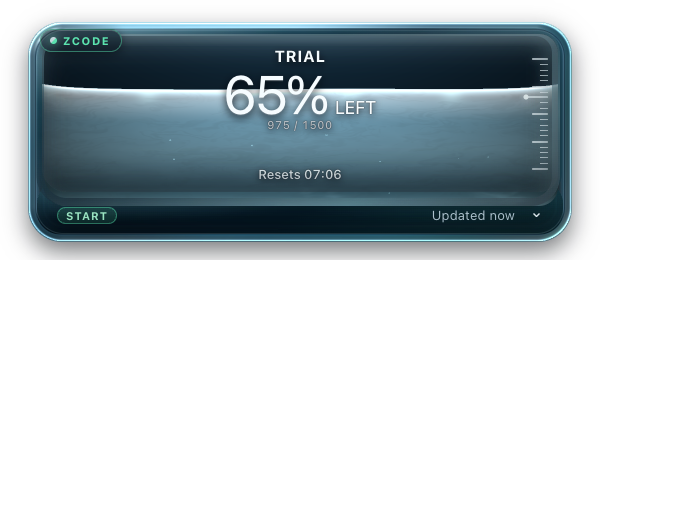
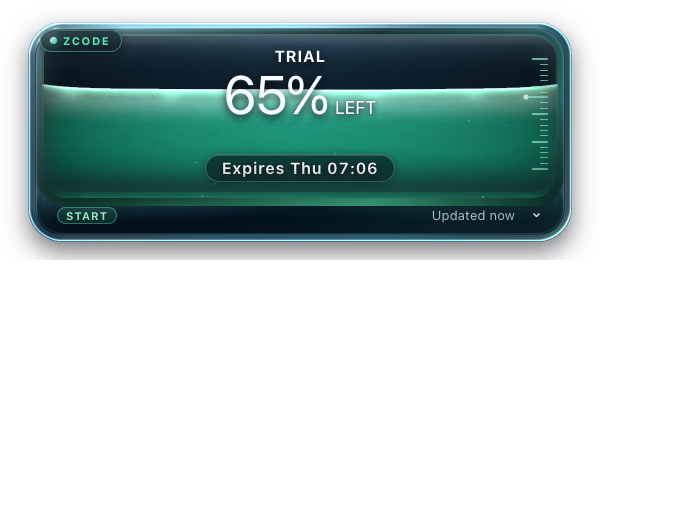
feat(zcode): 体验套餐复用 Pro 单舱形态并以翡翠绿液体区分
bandit0x 确认：体验套餐（start_plan）不需要 5h 限额仓概念，直接复用
Codex Pro 的全宽单舱（ProQuotaSurface），但液体颜色要区别于 Pro。

- ProQuotaSurface 新增 variant（默认 codex-pro 行为不变）：zcode-trial
  使用翡翠绿液体/边框、TRIAL 标签、Expires 语义的到期药丸（池到期时间
  非重置时间）、无 low 阈值
- 窄条同步复用 pro 布局：ZCODE · START 徽章（翡翠绿）+ TRIAL 百分比
- App.tsx 单池分支与守卫合并为 zcodeTrialSurface；移除首版 quota-grid
  TRIAL 舱方案
- CSS 镜像 emerald 单舱圆角/边框渐变与窄条圆点配色

验证：tsc 通过、vitest 61/61（TRIAL 单池断言改为 emerald+Expires、新增
窄条 START 变体测试）、?fixture=zcode-trial 紧凑/窄条截图对照通过，
release 二进制重装 /Applications/QuoDex.app 冒烟正常（Codex Pro 路径
无回归）。

Changed region(s): [[0.0309, 0.0615, 0.8338, 0.4]]

diff --git a/src/App.tsx b/src/App.tsx
@@ -303,7 +303,7 @@ function QuotaCell({
   motionSeed,
   reducedMotion,
 }: {
-  label: "5 HOUR" | "WEEK" | "TRIAL";
+  label: "5 HOUR" | "WEEK";
   window: QuotaWindow | null;
   accent: FluidAccent;
   credits?: string;
@@ -432,12 +432,14 @@ function SourceBadge({ source, pro = false }: { source: MeterSource; pro?: boole
 
 function CollapsedSurface({
   source,
+  pro,
+  trial,
   fiveHourPercent,
   weeklyPercent,
   onRestore,
-  pro = false,
 }: {
   pro?: boolean;
+  trial?: boolean;
   source: MeterSource;
   fiveHourPercent: number | null;
   weeklyPercent: number | null;
@@ -447,6 +449,11 @@ function CollapsedSurface({
     <span className="collapsed-pro-source">CODEX · PRO</span>
     <span>WEEK <strong>{weeklyPercent === null ? "—" : `${formatPercent(weeklyPercent)}%`}</strong></span>
     <i className="collapsed-dot collapsed-dot--pro" aria-hidden="true"/><Icon name="chevron"/>
+  </button>;
+  if (trial) return <button className="collapsed-surface collapsed-surface--pro collapsed-surface--zcode-trial" type="button" data-window-drag-surface onClick={onRestore} aria-label="恢复标准视图">
+    <span className="collapsed-pro-source">ZCODE · START</span>
+    <span>TRIAL <strong>{fiveHourPercent === null ? "—" : `${formatPercent(fiveHourPercent)}%`}</strong></span>
+    <i className="collapsed-dot collapsed-dot--zcode-trial" aria-hidden="true"/><Icon name="chevron"/>
   </button>;
   return (
     <button
@@ -872,8 +879,9 @@ export function App({
   const codexSnapshot = codexSlot.view.kind === "healthy" ? codexSlot.view.snapshot : codexSlot.lastSnapshot;
   const zcodeSnapshot = zcodeSlot.view.kind === "healthy" ? zcodeSlot.view.snapshot : zcodeSlot.lastSnapshot;
   const activeSnapshot = activeIsZcode ? zcodeSnapshot : codexSnapshot;
-  // 体验套餐（Start Plan）没有 5h/周窗口，额度聚合为单池展示
+  // 体验套餐（Start Plan）没有 5h/周窗口，额度聚合为单池，复用 Pro 单舱形态
   const zcodeIsTrial = zcodeSnapshot?.planKind === "start_plan";
+  const zcodeTrialSurface = activeIsZcode && zcodeIsTrial;
   // 显式传入的 codexPresentation 仅供测试与设计验证入口覆盖；生产从不传参，
   // 展示模式由最新快照里的协议套餐字段派生（未知套餐保持双仓）。
   const effectiveCodexPresentation = codexPresentation ?? deriveCodexPresentation(codexSnapshot);
@@ -931,28 +939,32 @@ export function App({
           <CollapsedSurface
             source={activeSource}
             pro={activeIsPro}
+            trial={zcodeTrialSurface}
             fiveHourPercent={activeSnapshot.fiveHour?.remainingPercent ?? null}
             weeklyPercent={activeSnapshot.weekly?.remainingPercent ?? null}
             onRestore={restoreCollapsedLayout}
           />
         ) : (
           <>
-            {!activeIsPro && activeSlot.view.kind === "loading" && <LoadingSurface label={sourceLabels[activeSource]} />}
-            {!activeIsPro && activeSlot.view.kind === "failed" && !activeSnapshot && (
+            {!activeIsPro && !zcodeTrialSurface && activeSlot.view.kind === "loading" && <LoadingSurface label={sourceLabels[activeSource]} />}
+            {!activeIsPro && !zcodeTrialSurface && activeSlot.view.kind === "failed" && !activeSnapshot && (
               <FailedSurface diagnostic={activeSlot.view.diagnostic} source={activeSource} onRetry={() => void refreshAll()} />
             )}
-            {activeIsPro && <ProQuotaSurface
-              window={codexSnapshot?.weekly ?? null}
+            {(activeIsPro || zcodeTrialSurface) && <ProQuotaSurface
+              variant={zcodeTrialSurface ? "zcode-trial" : "codex-pro"}
+              window={zcodeTrialSurface ? zcodeSnapshot?.fiveHour ?? null : codexSnapshot?.weekly ?? null}
               motion={fluidMotion}
-              motionSeed={fluidChamberSeeds.codexWeekly}
+              motionSeed={zcodeTrialSurface ? fluidChamberSeeds.zcodeFiveHour : fluidChamberSeeds.codexWeekly}
               reducedMotion={preferences.reducedMotion}
-              resetLabel={codexSnapshot?.weekly?.resetsAt == null ? "Resets —" : `Resets ${formatReset(codexSnapshot.weekly.resetsAt, true)}`}
+              resetLabel={zcodeTrialSurface
+                ? (zcodeSnapshot?.fiveHour?.resetsAt == null ? "Expires —" : `Expires ${formatReset(zcodeSnapshot.fiveHour.resetsAt, true)}`)
+                : (codexSnapshot?.weekly?.resetsAt == null ? "Resets —" : `Resets ${formatReset(codexSnapshot.weekly.resetsAt, true)}`)}
               status={stale ? "stale" : activeSlot.view.kind === "loading" ? "loading" : activeSlot.view.kind === "failed" ? "failed" : "ready"}
-              low={effectiveCodexPresentation.weeklyLow}
+              low={zcodeTrialSurface ? false : effectiveCodexPresentation.weeklyLow}
               diagnostic={failureDiagnostic}
               onRetry={() => void refreshAll()}
             />}
-            {!activeIsPro && activeSnapshot && (
+            {!activeIsPro && !zcodeTrialSurface && activeSnapshot && (
               <div
                 key={activeSource}
                 className={`quota-grid source-stage${activeIsZcode && !zcodeSnapshot?.weekly ? " quota-grid--single" : ""}`}
@@ -960,7 +972,7 @@ export function App({
                 {activeIsZcode && zcodeSnapshot ? (
                   <>
                     <QuotaCell
-                      label={zcodeIsTrial ? "TRIAL" : "5 HOUR"}
+                      label="5 HOUR"
                       window={zcodeSnapshot.fiveHour}
                       accent="moonlight"
                       credits={zcodeSnapshot.fiveHour ? formatCredits(zcodeSnapshot.fiveHour) : undefined}

diff --git a/src/ProQuotaSurface.tsx b/src/ProQuotaSurface.tsx
@@ -8,8 +8,27 @@ export interface CodexPresentation {
   weeklyLow?: boolean;
 }
 
+const SURFACE_COPY = {
+  "codex-pro": {
+    accent: "mint" as const,
+    label: "WEEK",
+    loading: "正在读取周额度…",
+    failed: "周额度读取失败",
+    unavailable: "周额度暂不可用",
+    low: "周额度偏低",
+  },
+  "zcode-trial": {
+    accent: "emerald" as const,
+    label: "TRIAL",
+    loading: "正在读取体验额度…",
+    failed: "体验额度读取失败",
+    unavailable: "体验额度暂不可用",
+    low: "体验额度偏低",
+  },
+};
+
 export function ProQuotaSurface({ window, motion, motionSeed, reducedMotion, resetLabel,
-  status = "ready", low = false, diagnostic, onRetry,
+  status = "ready", low = false, diagnostic, onRetry, variant = "codex-pro",
 }: {
   window: QuotaWindow | null;
   motion: FluidMotionSample;
@@ -20,24 +39,27 @@ export function ProQuotaSurface({ window, motion, motionSeed, reducedMotion, res
   low?: boolean;
   diagnostic?: { code: string; message: string };
   onRetry: () => void;
+  /** zcode-trial：ZCode 体验套餐单池，翡翠绿液体与 Codex Pro 薄荷绿区分 */
+  variant?: "codex-pro" | "zcode-trial";
 }) {
+  const copy = SURFACE_COPY[variant];
   const remaining = window?.remainingPercent ?? 0;
   const formatted = Number.isInteger(remaining) ? remaining.toFixed(0) : remaining.toFixed(1);
   return <div className="quota-grid quota-grid--single">
-    <section className={`quota-cell quota-cell--mint quota-cell--pro ${window ? "" : "quota-cell--unavailable"}`} role="group" aria-label="WEEK quota">
-      {window && <FluidReservoir remainingPercent={remaining} accent="mint" motion={motion} motionSeed={motionSeed} reducedMotion={reducedMotion}/>}
+    <section className={`quota-cell quota-cell--${copy.accent} quota-cell--pro ${window ? "" : "quota-cell--unavailable"}`} role="group" aria-label={`${copy.label} quota`}>
+      {window && <FluidReservoir remainingPercent={remaining} accent={copy.accent} motion={motion} motionSeed={motionSeed} reducedMotion={reducedMotion}/>}
       <span className="quota-cell__bezel" aria-hidden="true"/>
       <div className="cell-content">
-        <span className="quota-label">WEEK</span>
+        <span className="quota-label">{copy.label}</span>
         <div className="capacity-value"><span>{window ? `${formatted}%` : "—"}</span>{window && <small>LEFT</small>}</div>
-        {window && (status === "stale" || low) && <span className="pro-quota-warning">{status === "stale" ? "上次有效数据" : "周额度偏低"}</span>}
+        {window && (status === "stale" || low) && <span className="pro-quota-warning">{status === "stale" ? "上次有效数据" : copy.low}</span>}
         <span className="reset-time" role={status === "loading" ? "status" : undefined}>
-          {status === "loading" ? "正在读取周额度…" : status === "failed" ? "周额度读取失败" : window ? resetLabel : "周额度暂不可用"}
+          {status === "loading" ? copy.loading : status === "failed" ? copy.failed : window ? resetLabel : copy.unavailable}
         </span>
         {window && <div className="scale-line" aria-hidden="true"><span className="scale-line__ticks">{Array.from({length:21}, (_,i)=><span key={i} className={i%5===0 ? "scale-tick scale-tick--major" : "scale-tick"}/>)}</span><span className="scale-line__marker" style={{top:`${100-remaining}%`}}/></div>}
       </div>
       {(status === "failed" || (status === "stale" && diagnostic) || (status !== "loading" && !window)) && <div className="pro-quota-recovery" role="status">
-        <span title={diagnostic?.message}>{diagnostic ? `${diagnostic.message} · ${diagnostic.code}` : "周额度暂不可用"}</span>
+        <span title={diagnostic?.message}>{diagnostic ? `${diagnostic.message} · ${diagnostic.code}` : copy.unavailable}</span>
         <button type="button" onClick={onRetry}>重试</button>
       </div>}
     </section>

diff --git a/src/App.test.tsx b/src/App.test.tsx
@@ -605,7 +605,7 @@ describe("dual quota sources", () => {
     expect(screen.queryByRole("group", { name: "WEEK quota" })).not.toBeInTheDocument();
   });
 
-  it("renders the Start trial plan as a single TRIAL pool", async () => {
+  it("renders the Start trial plan as a Pro-style single pool with emerald liquid", async () => {
     render(
       <App
         {...inertPreferences}
@@ -630,13 +630,38 @@ describe("dual quota sources", () => {
     );
 
     const trial = await screen.findByRole("group", { name: "TRIAL quota" });
-    expect(trial).toHaveClass("quota-cell--moonlight");
+    expect(trial).toHaveClass("quota-cell--emerald", "quota-cell--pro");
     expect(within(trial).getByText("65%", { exact: false })).toBeInTheDocument();
-    expect(within(trial).getByText("975 / 1500")).toBeInTheDocument();
+    expect(within(trial).getByText("TRIAL")).toBeInTheDocument();
+    // 体验套餐的池到期时间语义是 Expires，不是 Resets
+    expect(within(trial).getByText(/Expires /)).toBeInTheDocument();
     expect(screen.queryByRole("group", { name: "WEEK quota" })).not.toBeInTheDocument();
+    expect(screen.queryByRole("group", { name: "5 HOUR quota" })).not.toBeInTheDocument();
     expect(screen.getByText("START")).toBeInTheDocument();
     // 体验套餐没有周窗口概念，footer 不应提示 Week unavailable
     expect(screen.queryByText(/Week unavailable/)).not.toBeInTheDocument();
+  });
+
+  it("renders a ZCode trial collapsed surface with START branding", async () => {
+    render(
+      <App
+        {...inertPreferences}
+        initialLayout="collapsed"
+        loadPreferences={async () => ({ ...basePreferences, source: "zcode" })}
+        loadSnapshot={async () => healthySnapshot}
+        loadZcodeSnapshot={async () => ({
+          ...healthyZcodeSnapshot,
+          weekly: null,
+          planLevel: "Start",
+          planKind: "start_plan",
+        })}
+      />,
+    );
+
+    const collapsed = await screen.findByRole("button", { name: "恢复标准视图" });
+    expect(collapsed).toHaveClass("collapsed-surface--zcode-trial");
+    expect(within(collapsed).getByText("ZCODE · START")).toBeInTheDocument();
+    expect(within(collapsed).getByText(/TRIAL/)).toBeInTheDocument();
   });
 
   it("alternates the active source every ten seconds in carousel mode", async () => {

diff --git a/src/App.css b/src/App.css
@@ -235,8 +235,13 @@ input:focus-visible {
   --center-wall-depth: inset 0 0 0 transparent;
 }
 .quota-cell--mint.quota-cell--pro .fluid-reservoir { border-radius: 25px; }
+/* ZCode 体验套餐复用 Pro 单舱形态，液体/边框换成翡翠绿以区分来源 */
+.quota-cell--emerald.quota-cell--pro .fluid-reservoir { border-radius: 25px; }
 .quota-cell--pro .quota-cell__bezel {
   background: linear-gradient(150deg, rgba(215,250,255,.4), rgba(4,27,40,.74) 42%, rgba(81,228,198,.3) 76%, rgba(1,15,25,.78));
+}
+.quota-cell--emerald.quota-cell--pro .quota-cell__bezel {
+  background: linear-gradient(150deg, rgba(215,250,236,.4), rgba(4,27,22,.74) 42%, rgba(89,227,173,.3) 76%, rgba(1,25,18,.78));
 }
 .source-badge__pro {
   border-left: 1px solid #50d8ff66;
@@ -271,6 +276,9 @@ input:focus-visible {
 .collapsed-surface.collapsed-surface--pro strong { font-size: 25px; }
 .collapsed-surface--pro > svg { width: 15px; height: 15px; fill: none; stroke: currentColor; stroke-width: 2; }
 .collapsed-dot--pro { margin-left: auto; color: var(--mint); background: var(--mint); width: 9px; height: 9px; }
+/* ZCode 体验套餐窄条：同一布局，来源文字与圆点换成翡翠绿 */
+.collapsed-surface--zcode-trial .collapsed-pro-source { color: var(--emerald); }
+.collapsed-dot--zcode-trial { margin-left: auto; color: var(--emerald); background: var(--emerald); width: 9px; height: 9px; }
 
 .quota-grid.source-stage { animation: source-fade 240ms ease-out both; }
 

diff --git a/README.md b/README.md
@@ -32,7 +32,7 @@ _图 1：QuoDex 正常状态；TomatoCloud 显示绿色健康路由（UK · 42 m
 - 支持 10 秒鼠标穿透、透明度调节和减少动效
 - 数据读取失败时保留最近一次有效数据，并显示稳定诊断码
 - 支持 ZCode 编程包额度源：自动发现 `~/.zcode` 中启用的 coding-plan
-- 支持 ZCode 体验套餐（Start Plan）：体验套餐可用时优先于个人套餐显示，额度桶聚合为单池 TRIAL 舱并以 START 徽章标识；体验套餐不可用时回落个人套餐
+- 支持 ZCode 体验套餐（Start Plan）：体验套餐可用时优先于个人套餐显示，复用 Codex Pro 的全宽单舱形态（无 5h 限额仓），液体为翡翠绿以区分 Codex Pro 的薄荷绿，池到期时间以 Expires 标注；体验套餐不可用时回落个人套餐
 - 左上角来源徽章（Codex 青 / ZCode 翡翠绿）标识当前显示的额度来源；ZCode 的 5 小时舱使用月光银、周舱使用翡翠绿，窄条模式以对应色点区分
 - 设置面板可切换「Codex / Zcode / 轮播」，轮播每 10 秒交替展示两个来源
 
